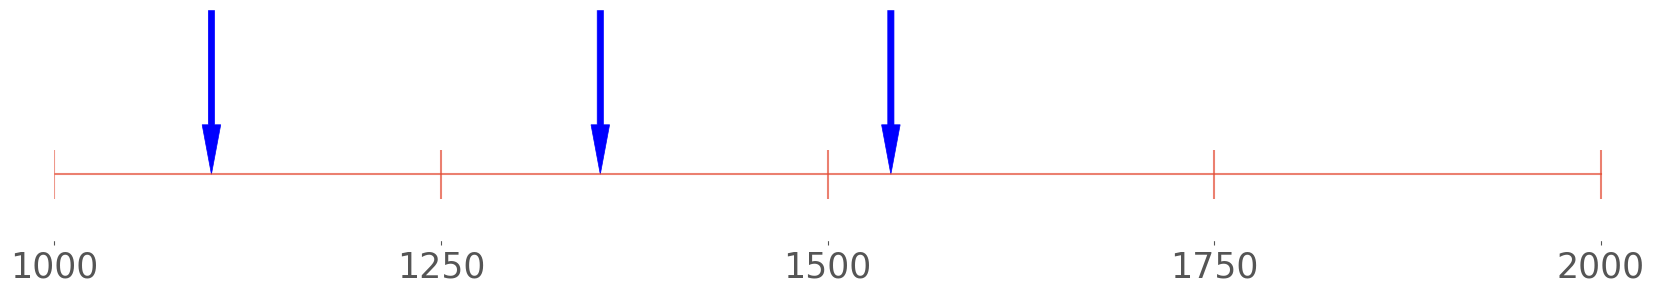
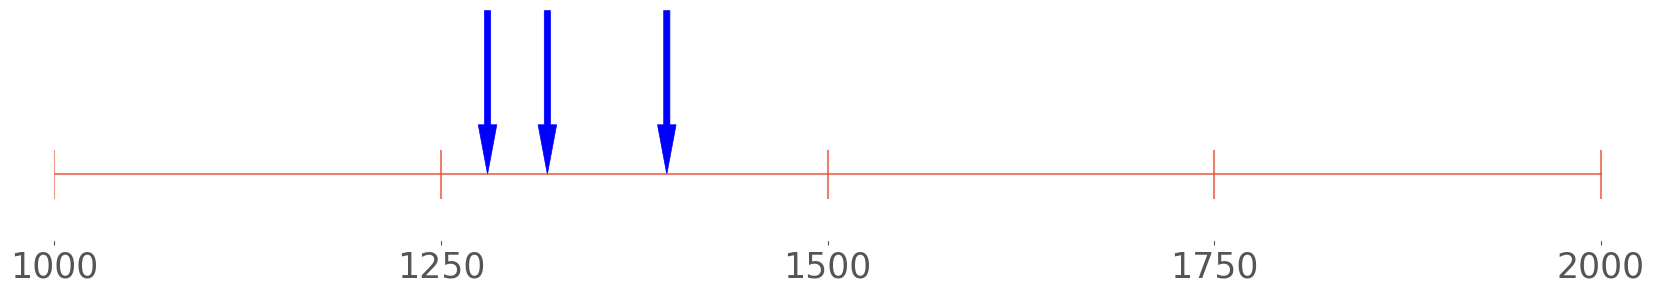
Simpler stimulus for experiment 2

Changed region(s): [[0.2773, 0.0306, 0.4314, 0.551], [0.5239, 0.0306, 0.5547, 0.551], [0.1233, 0.0306, 0.1541, 0.551]]

diff --git a/create_stimuli_experiment_2.py b/create_stimuli_experiment_2.py
@@ -19,9 +19,7 @@ def create_normal_distrib(mean, std, size, seed):
 
 def create_draw_experiment(sample_to_draw, seed, npoints=3, mean_factor=1, y=1000):
     rng = np.random.default_rng(seed)
-    mean_sample_x = list(
-        rng.choice(sample_to_draw, size=npoints * mean_factor)
-    )
+    mean_sample_x = list(rng.choice(sample_to_draw, size=npoints * mean_factor))
     sample_x = [0] * npoints
     i = 0
     j = 0
@@ -112,14 +110,9 @@ def create_one_plot_from_scratch(
     highlight_arrow=False,
 ):
 
-    sample = create_normal_distrib(mean=mean, std=std, size=10000, seed=seed)
+    sample_x = create_normal_distrib(mean=mean, std=std, size=npoints, seed=seed)
 
-    sample_x, sample_y = create_draw_experiment(
-        sample_to_draw=sample,
-        npoints=npoints,
-        mean_factor=mean_factor,
-        seed=seed,
-    )
+    sample_y = [1000] * len(sample_x)
     figure = create_one_plot(
         sample_x=sample_x,
         sample_y=sample_y,
@@ -135,7 +128,6 @@ def create_one_plot_from_scratch(
     )
 
     return figure
-
 
 
 def create_stimuli_experiment_same_mean_between_conditions(
@@ -183,7 +175,7 @@ def create_stimuli_experiment_same_mean_between_conditions(
                     std=list_conditions[icondition][0],
                     npoints=list_conditions[icondition][1],
                     mean_factor=mean_factor,
-                    seed=seed + sample + icondition + iteration,
+                    seed=seed,
                     x_line=x_line,
                     y_line=y_line,
                     xmin=xmin,
@@ -203,10 +195,10 @@ def create_stimuli_experiment_same_mean_between_conditions(
 res = create_stimuli_experiment_same_mean_between_conditions(
     start_mean=1300,
     end_mean=1700,
-    list_std=[20,150],
-    list_npoints=[10],
-    n_iteration_per_condition=4,
-    n_samples=4,
+    list_std=[20, 150],
+    list_npoints=[3],
+    n_iteration_per_condition=2,
+    n_samples=1,
     mean_factor=1,
     seed=0,
     xmin=999,
